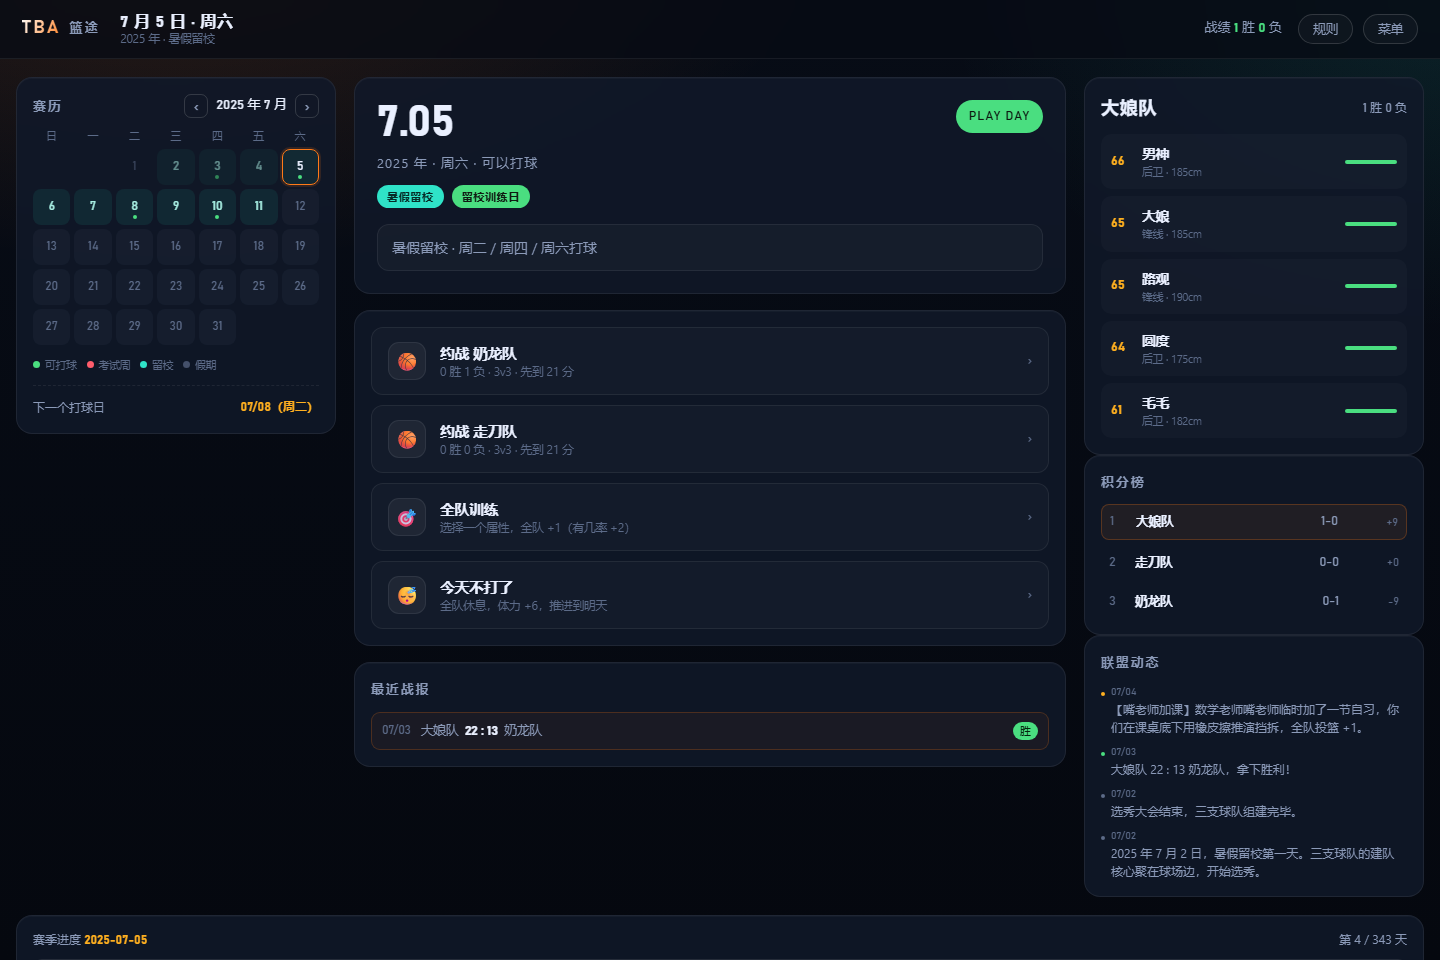
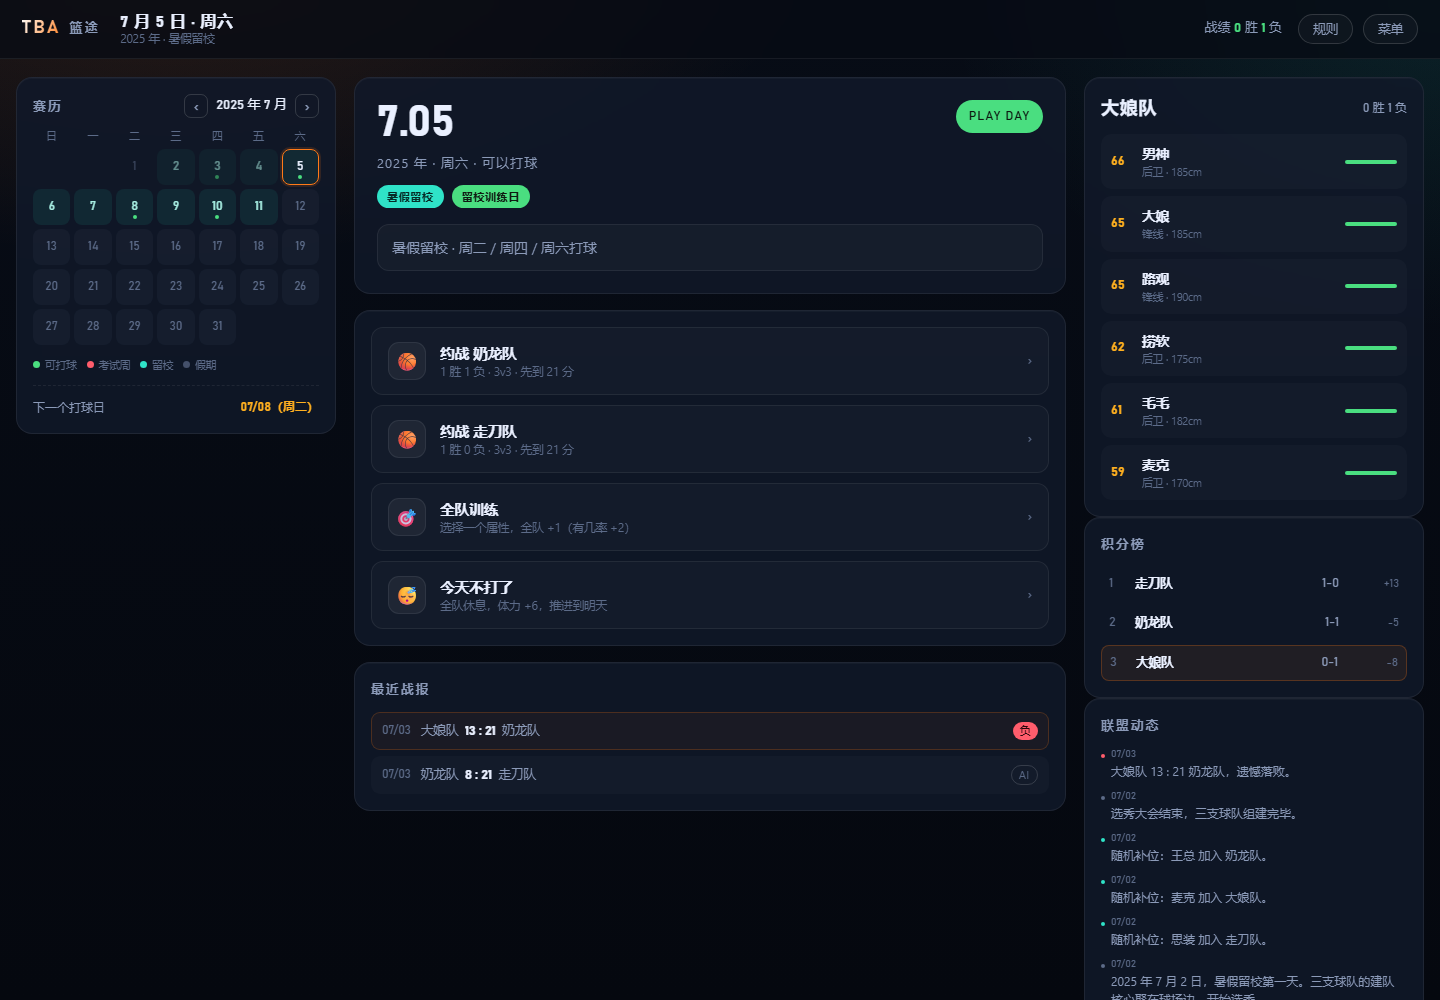
v1.1.2: 修复选秀结束后卡死，每队随机补位第 5 名新秀

diff --git a/assets/js/ui.js b/assets/js/ui.js
@@ -258,7 +258,14 @@
     if (!st || st.phase !== 'draft' || !st.draft) return;
     if (st.draft.stage === 'lock') return;
     const slot = Draft.currentSlot(st);
-    if (!slot) { draftComplete(); return; }
+    if (!slot) {
+      // 已经没有签位：让状态机执行最后一步 finishDraft
+      // （分配阵容、随机补位、把阶段切到 season），否则会卡在选秀页
+      if (st.draft) Draft.step(st);
+      Game.save(st);
+      draftComplete();
+      return;
+    }
     const team = st.teams.find(t => t.id === slot.teamId);
     if (team.human) return;
     if (UI.draftBusy) return;
@@ -278,25 +285,33 @@
     const st = Game.state;
     if (UI.summaryShown) return;
     UI.summaryShown = true;
+    const lastDraft = st.draftHistory[st.draftHistory.length - 1] || { bonus: [] };
+    const bonusMap = {};
+    (lastDraft.bonus || []).forEach(b => { bonusMap[b.playerId] = true; });
+
     const rows = st.teams.map(t => `
-      <div style="margin-top:14px">
-        <div style="display:flex;justify-content:space-between;margin-bottom:8px">
-          <b style="font-size:14px">${esc(t.name)}</b>
-          <span class="muted" style="font-size:12px">${t.roster.map(id => st.players[id].name).join(' · ')}</span>
+      <div class="sum-team">
+        <div class="sum-head">
+          <b>${esc(t.name)}</b>
+          <span class="muted">${t.roster.length} 人</span>
         </div>
-        <div class="mini-roster">
+        <div class="sum-chips">
           ${t.roster.map(id => {
             const p = st.players[id];
-            return `<div class="mini-player"><span class="mini-ovr">${p.overall}</span>
-              <div><div class="mini-name">${esc(p.name)}</div><small class="muted">${p.pos} · ${p.h}cm · ${esc(p.trait || '')}</small></div>
-              <span class="mini-pos">${p.core ? '建队核心' : ''}</span></div>`;
+            const cls = p.core ? 'is-core' : bonusMap[p.id] ? 'is-bonus' : '';
+            const tag = p.core ? '核心' : bonusMap[p.id] ? '随机补位' : '';
+            return `<div class="sum-chip ${cls}">
+              <span class="ovr">${p.overall}</span>
+              <span class="nm">${esc(p.name)}</span>
+              ${tag ? `<em>${tag}</em>` : ''}
+            </div>`;
           }).join('')}
         </div>
       </div>`).join('');
 
-    openModal(`${modalHead('选秀大会结束', '三支球队组建完毕，赛季即将开始')}
+    openModal(`${modalHead('选秀大会结束', '建队核心 + 4 个顺位 + 1 个随机补位，每队 6 人')}
       ${rows}
-      <div class="modal-actions">
+      <div class="modal-actions is-sticky">
         <button class="btn btn-primary" id="btn-draft-done">进入赛季</button>
       </div>`, { wide: true, onClose: render });
     const btn = $('#btn-draft-done');
@@ -688,7 +703,7 @@
           <li>三支球队分为 A / B / C 三个批次，优先级依次递减；批次由最近一次比赛结果决定，输得最多的拿 A。</li>
           <li>选秀顺序：<code>ABC ABC BCA CAB</code>，共 12 个签位，每队 4 人。</li>
           <li>锁定：选秀前可锁定上一轮自己的一名球员，至多一人，不能是上一轮自己的第一顺位；锁定后该球员充当本轮第一顺位。</li>
-          <li>交易市场：v1.0.0 雏形暂未实现，排在 v1.1 计划里。</li>
+          <li>交易市场：v1.1.2 暂未实现，排在后续版本计划里。</li>
         </ul>
         <h4>三、比赛</h4>
         <ul>
@@ -925,6 +940,13 @@
           }
         };
         autoDraft();
+
+        if (demo === 'summary') {
+          Game.save(st);
+          render();
+          draftComplete();
+          return;
+        }
 
         const playSeason = untilDraft => {
           let guard = 0;

diff --git a/assets/js/core.js b/assets/js/core.js
@@ -597,6 +597,27 @@
       const picked = d.picks.filter(p => p.teamId === t.id).map(p => p.playerId);
       t.roster = [t.core].concat(picked);
       t.roster = Array.from(new Set(t.roster));
+    });
+
+    // rules.png 只规定了四个顺位：每队再从剩余球员里随机补进一人，
+    // 凑满五名新秀（加建队核心共六人）
+    const bonus = [];
+    const leftover = d.pool.slice().filter(id => {
+      for (const t of state.teams) if (t.roster.indexOf(id) >= 0) return false;
+      return true;
+    });
+    const bonusOrder = shuffle(state.teams.map(t => t.id));
+    bonusOrder.forEach(tid => {
+      if (!leftover.length) return;
+      const idx = Math.floor(Math.random() * leftover.length);
+      const pid = leftover.splice(idx, 1)[0];
+      const team = state.teams.find(t => t.id === tid);
+      team.roster.push(pid);
+      bonus.push({ teamId: tid, playerId: pid });
+    });
+
+    // 新阵容统一恢复状态
+    state.teams.forEach(t => {
       t.roster.forEach(id => {
         const p = state.players[id];
         if (p) { p.stamina = Math.max(p.stamina, 85); p.injury = 0; }
@@ -619,10 +640,16 @@
       picks: d.picks.slice(),
       firstPick,
       rosterBefore,
-      rosterAfter
+      rosterAfter,
+      bonus
     });
 
-    state.freeAgents = d.pool.slice();
+    bonus.forEach(b => {
+      const team = state.teams.find(t => t.id === b.teamId);
+      Game.log(state, `随机补位：${state.players[b.playerId].name} 加入 ${team.name}。`, 'draft');
+    });
+
+    state.freeAgents = leftover;
     state.draft = null;
     state.phase = 'season';
     Game.log(state, d.round === 1 ? '选秀大会结束，三支球队组建完毕。' : '中期选秀结束，联盟进入下半程。');

diff --git a/assets/css/style.css b/assets/css/style.css
@@ -833,6 +833,38 @@ b, strong { font-weight: 700; }
 .play-log div { display: flex; gap: 10px; }
 .play-log .score { font-family: var(--mono); color: var(--orange-2); min-width: 42px; }
 
+/* 选秀总结 */
+.sum-team { margin-top: 14px; }
+.sum-head { display: flex; align-items: baseline; justify-content: space-between; margin-bottom: 8px; }
+.sum-head b { font-size: 15px; letter-spacing: 0.03em; }
+.sum-head .muted { font-size: 11.5px; }
+.sum-chips { display: grid; grid-template-columns: repeat(3, minmax(0, 1fr)); gap: 6px; }
+.sum-chip {
+  display: flex;
+  align-items: center;
+  gap: 7px;
+  padding: 7px 10px;
+  border-radius: 9px;
+  background: rgba(255, 255, 255, 0.03);
+  border: 1px solid var(--line);
+  font-size: 12.5px;
+  min-width: 0;
+}
+.sum-chip .ovr { font-family: var(--mono); font-weight: 700; color: var(--orange-2); }
+.sum-chip .nm { font-weight: 600; overflow: hidden; text-overflow: ellipsis; white-space: nowrap; }
+.sum-chip em { margin-left: auto; font-style: normal; font-size: 9.5px; letter-spacing: 0.06em; color: var(--dim); white-space: nowrap; }
+.sum-chip.is-core { border-color: rgba(47, 227, 200, 0.35); }
+.sum-chip.is-bonus { border-color: rgba(255, 176, 32, 0.45); background: rgba(255, 176, 32, 0.06); }
+.sum-chip.is-bonus em { color: var(--orange-2); }
+.modal-actions.is-sticky {
+  position: sticky;
+  bottom: -24px;
+  margin: 18px -24px -24px;
+  padding: 14px 24px 18px;
+  background: linear-gradient(to top, #0b1220 62%, rgba(11, 18, 32, 0.85) 85%, rgba(11, 18, 32, 0));
+  border-top: 1px solid var(--line);
+}
+
 /* 阵容预览 */
 .matchup { display: grid; grid-template-columns: 1fr auto 1fr; gap: 14px; align-items: center; }
 .lineup-col { display: flex; flex-direction: column; gap: 8px; }

diff --git a/tests/test-core.js b/tests/test-core.js
@@ -68,8 +68,13 @@ quickDraft(state);
 check('选秀完成进入赛季', state.phase === 'season', state.phase);
 state.teams.forEach(t => {
   console.log(`${t.name}: ${t.roster.map(id => players[id].name + '(' + players[id].overall + ')').join(' / ')}`);
-  check(`${t.name} 阵容 5 人`, t.roster.length === 5, t.roster.length);
+  check(`${t.name} 阵容 6 人（核心 + 5 新秀）`, t.roster.length === 6, t.roster.length);
 });
+
+const bonus = state.draftHistory[0].bonus || [];
+check('每队随机补位 1 人（共 3 人）', bonus.length === 3, bonus.length);
+check('剩余自由球员 4 人', state.freeAgents.length === 4, state.freeAgents.length);
+check('补位球员都在各自球队里', bonus.every(b => state.teams.find(t => t.id === b.teamId).roster.indexOf(b.playerId) >= 0));
 
 /* ---------- 4. 比赛模拟 ---------- */
 console.log('\n=== 比赛模拟（30 场） ===');

diff --git a/tests/test-lock.js b/tests/test-lock.js
@@ -46,7 +46,7 @@ check('2026-02-05 触发中期选秀', st.phase === 'draft' && st.draft.round ==
 const d = st.draft;
 check('进入锁定阶段', d.stage === 'lock');
 const allowed = d.previous.rosterAfter[human.id].filter(id => id !== d.previous.firstPick[human.id]);
-check('可锁定 3 人（不含上一轮第一顺位）', allowed.length === 3, allowed.length);
+check('可锁定 4 人（不含上一轮第一顺位）', allowed.length === 4, allowed.length);
 
 const lockId = allowed[0];
 console.log('锁定', st.players[lockId].name, '| 批次', JSON.stringify(d.batches));

diff --git a/index.html b/index.html
@@ -21,7 +21,7 @@
 
         <div class="title-main">
           <div class="title-copy">
-            <p class="eyebrow">BASKETBALL SIMULATOR · 雏形版 v1.0.0</p>
+            <p class="eyebrow">BASKETBALL SIMULATOR · 雏形版 v1.1.2</p>
             <h1>篮途<em>模拟器</em></h1>
             <p class="lead">体育课只有四十分钟，考试周却能天天打球。<br />你叫大娘，球队的总经理，也是首发大前锋。</p>
 

diff --git a/assets/js/data.js b/assets/js/data.js
@@ -9,7 +9,7 @@
   'use strict';
   const TBA = (global.TBA = global.TBA || {});
 
-  TBA.VERSION = '1.0.0';
+  TBA.VERSION = '1.1.2';
   TBA.TITLE = 'TBA 模拟器';
 
   /* ============================================================

diff --git a/README.md b/README.md
@@ -6,7 +6,7 @@
 
 你扮演「大娘」——球队总经理兼首发大前锋，从 2025 年 7 月 2 日暑假留校开始，经历选秀、体育课、考试周、寒假留校，一路打到 2026 年 6 月 9 日。
 
-> 当前版本 **v1.0.0 雏形**：只开放「大娘」一个角色，奶龙与走刀待解锁。
+> 当前版本 **v1.1.2**：只开放「大娘」一个角色，奶龙与走刀待解锁。
 
 ## 开始玩
 
@@ -18,7 +18,7 @@
 | 系统 | 说明 |
 | --- | --- |
 | 赛历 | 完全按 `schedule.md` 还原：暑假 / 寒假、留校、体育课、小考试、大考试、留校最后一天不打 |
-| 选秀 | 三支球队、A / B / C 批次、`ABC ABC BCA CAB` 共 12 个签位，AI 会自动补位置 |
+| 选秀 | 三支球队、A / B / C 批次、`ABC ABC BCA CAB` 共 12 个签位；选完再从剩余球员里随机补 1 人，每队 5 名新秀 |
 | 中期选秀 | 2026-02-05 触发，批次按最近战绩（输得最多拿 A 批），可锁定上一轮球员 |
 | 比赛 | 3v3、先到 21 分且领先 2 分；逐回合模拟，产出得分 / 篮板 / 助攻与关键回合 |
 | 养成 | 全队训练、体力、伤病、随机校园事件 |
@@ -33,6 +33,10 @@
 | 比赛结算 | 赛季结算 |
 | --- | --- |
 | ![](docs/screenshots/match.png) | ![](docs/screenshots/end.png) |
+
+| 选秀总结（含随机补位） | 中期选秀锁定 |
+| --- | --- |
+| ![](docs/screenshots/summary.png) | ![](docs/screenshots/lock.png) |
 
 ## 数据与规则来源
 
@@ -53,12 +57,11 @@
 ### 规则实现说明
 
 - **选秀顺序**按图一底部的 `ABC ABC BCA CAB` 实现（每队 4 签，共 12 签）。
+- **随机补位**：`rules.png` 只规定了 4 个顺位，所以选秀结束后每队会从剩余球员里随机获得第 5 名新秀，队伍最终 6 人（建队核心 + 5）。
 - **批次表**（A: 1/2/2/3 等）在界面里作为参考展示；如果后续确认它描述的是另一种签位分配，改 `assets/js/data.js` 里的 `DRAFT_ORDER` 即可。
-- 22 名球员里 3 名核心 + 每队 4 名新秀 = 15 人进队，其余进入自由球员池（v1.1 再开放签约）。
-- **交易市场**（`rules.png` 第③条）这一版没有实现，已排进 v1.1。
-- 比赛做成 3v3：每队选秀 4 人 + 1 名核心，正好 3 首发 + 2 替补。
-
-![中期选秀的锁定阶段](docs/screenshots/lock.png)
+- 22 名球员里 3 名核心 + 每队 5 名新秀 = 18 人进队，剩下 4 人进入自由球员池（后续版本再开放签约）。
+- **交易市场**（`rules.png` 第③条）这一版还没有实现，已排进后续版本。
+- 比赛做成 3v3：每队 6 人，3 首发 + 3 替补。
 
 ## 操作
 
@@ -93,14 +96,20 @@ node tests/test-lock.js
 
 - `index.html?demo=draft` 停在选秀现场
 - `index.html?demo=main` 选完秀并推进到可打球日
+- `index.html?demo=summary` 直接看选秀结束的阵容总结（含随机补位）
 - `index.html?demo=match` 直接看一场比赛结算
 - `index.html?demo=lock` 快进到 2026-02-05 的中期选秀锁定阶段
 - `index.html?demo=end` 快进到赛季结束
 
+## 更新日志
+
+- **v1.1.2**：修复选秀结束后「进入赛季」卡死的问题；每队随机补位第 5 名新秀（队伍 6 人）。详见 [CHANGELOG.md](CHANGELOG.md)。
+- **v1.1.1**：首个可玩雏形（赛历、选秀、3v3 比赛、赛季主界面、存档、中期选秀）。
+
 ## 路线图
 
-- **v1.1**：交易市场（含建队核心对第二顺位球员交易的一票否决）、自由球员签约、任选操控角色（奶龙 / 走刀）、更丰富的老师 NPC 事件、音效。
-- **v1.2**：赛季奖项（MVP / 得分王）、球员成长曲线、竖屏适配打磨。
+- **v1.2**：交易市场（含建队核心对第二顺位球员交易的一票否决）、自由球员签约、任选操控角色（奶龙 / 走刀）、更丰富的老师 NPC 事件、音效。
+- **v1.3**：赛季奖项（MVP / 得分王）、球员成长曲线、竖屏适配打磨。
 
 ---
 

diff --git a/CHANGELOG.md b/CHANGELOG.md
@@ -1,0 +1,28 @@
+# 更新日志
+
+## v1.1.2
+
+### 修复
+
+- **选秀结束后「进入赛季」卡死**：最后一签选完后，界面只弹出了阵容总结，却没有执行选秀收尾（分配阵容、随机补位、把阶段切换到赛季），于是点「进入赛季」仍然停在选秀页。
+  现在收尾一定会执行；此前存档里卡住的选秀，读取时也会自动补完。
+
+### 新增
+
+- **每队随机补位第 5 名新秀**：`rules.png` 只规定了 4 个顺位，所以 12 个签位选完后，每队再从剩余球员里随机获得 1 人，阵容变成「建队核心 + 5 名新秀 = 6 人」。
+  补位会写进联盟动态、选秀总结（带「随机补位」标记）和选秀历史，中期选秀的锁定列表也会计入这名球员。
+
+### 调整
+
+- 版本号更新为 **v1.1.2**，标题页与规则说明同步。
+- 新增演示参数 `?demo=summary`（直接查看选秀结束的阵容总结）。
+
+### 测试
+
+- `node tests/test-core.js`：新增「每队 6 人」「随机补位 3 人」「自由球员 4 人」断言。
+- `node tests/test-lock.js`：锁定列表随阵容扩到 5 人同步更新。
+- 浏览器自动点击回归：从标题 → 选秀 → 选满 12 签 → 选秀总结 → 进入赛季，主界面正常显示，6 人阵容与行动按钮都在。
+
+## v1.1.1
+
+- 首个可玩雏形：按 `schedule.md` 还原的赛历、按 `rules.png` 实现的选秀与中期选秀锁定、3v3 比赛模拟、赛季主界面、自动存档。
